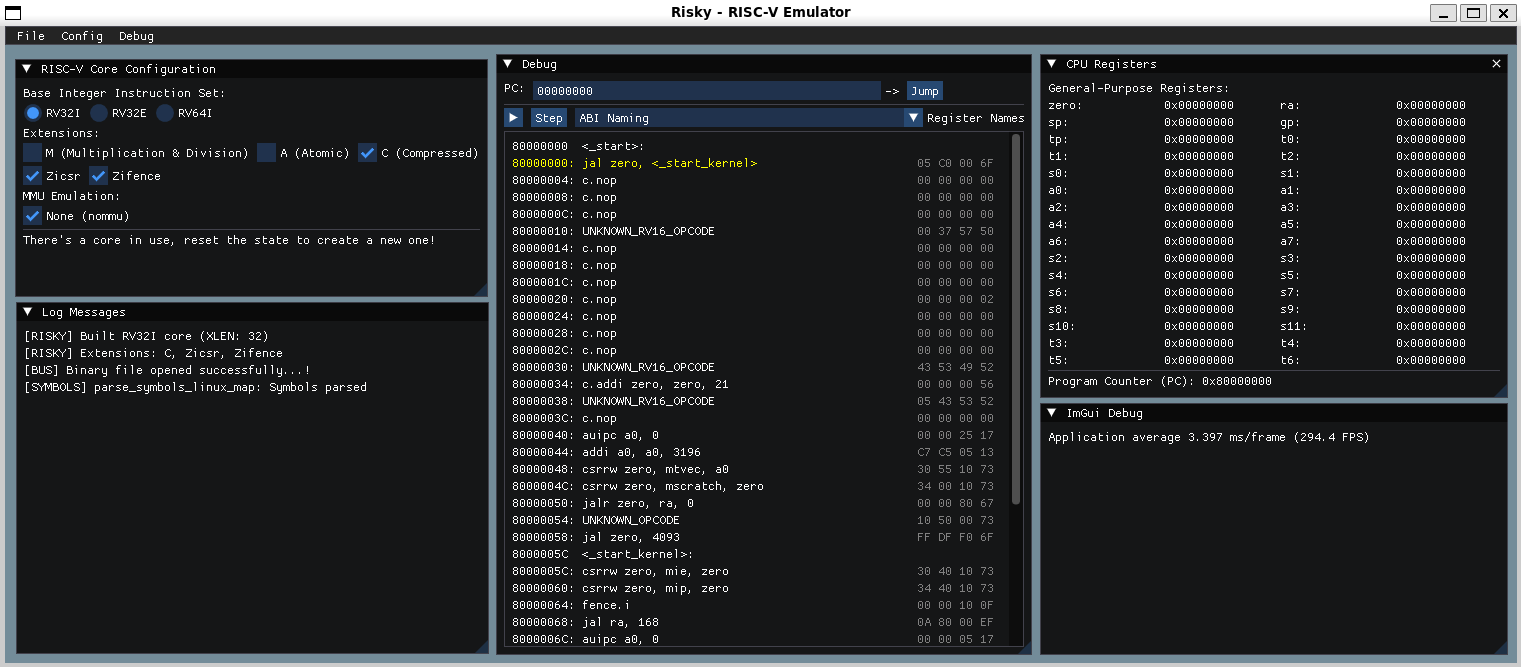
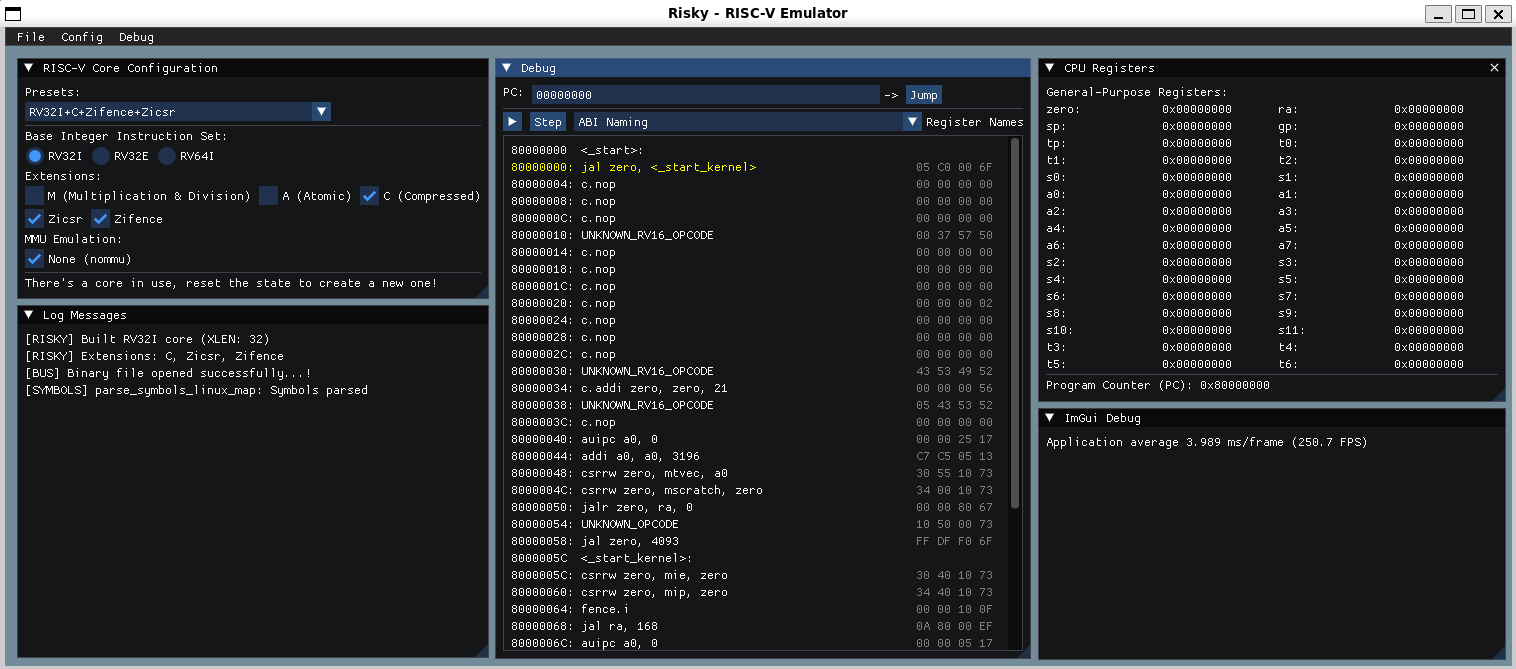
risky/frontend/imgui: Add a simple core preset selection dropdown

Changed region(s): [[0.0, 0.0, 1.0, 1.0], [0.8371, 0.1799, 0.8681, 0.4498], [0.248, 0.3598, 0.279, 0.3898]]

diff --git a/frontend/imgui/imgui_risky.cpp b/frontend/imgui/imgui_risky.cpp
@@ -331,6 +331,36 @@ void ImGui_Risky::run() {
 		{
 			ImGui::Begin("RISC-V Core Configuration");
 
+			static const char* presetNames[] = { "None", "RV32I+C+Zifence+Zicsr", "Custom" };
+			static int selectedPreset = 0;
+
+			ImGui::Text("Presets:");
+			ImGui::Combo("##PresetsCombo", &selectedPreset, presetNames, IM_ARRAYSIZE(presetNames));
+
+			if (selectedPreset != 0) {
+				has_M_extension = false;
+				has_A_extension = false;
+				has_C_extension = false;
+				has_Zicsr_extension = false;
+				has_Zifence_extension = false;
+				nommu = true;
+
+				switch (selectedPreset) {
+					case 1:  // RV32I+C+Zifence+Zicsr
+						selected_riscv_variant = 0;
+						has_C_extension = true;
+						has_Zifence_extension = true;
+						has_Zicsr_extension = true;
+						break;
+					case 2:
+						break;
+					default:
+						break;
+				}
+			}
+
+			ImGui::Separator();
+
 			ImGui::Text("Base Integer Instruction Set:");
 			ImGui::RadioButton("RV32I", &selected_riscv_variant, 0);
 			ImGui::SameLine();
